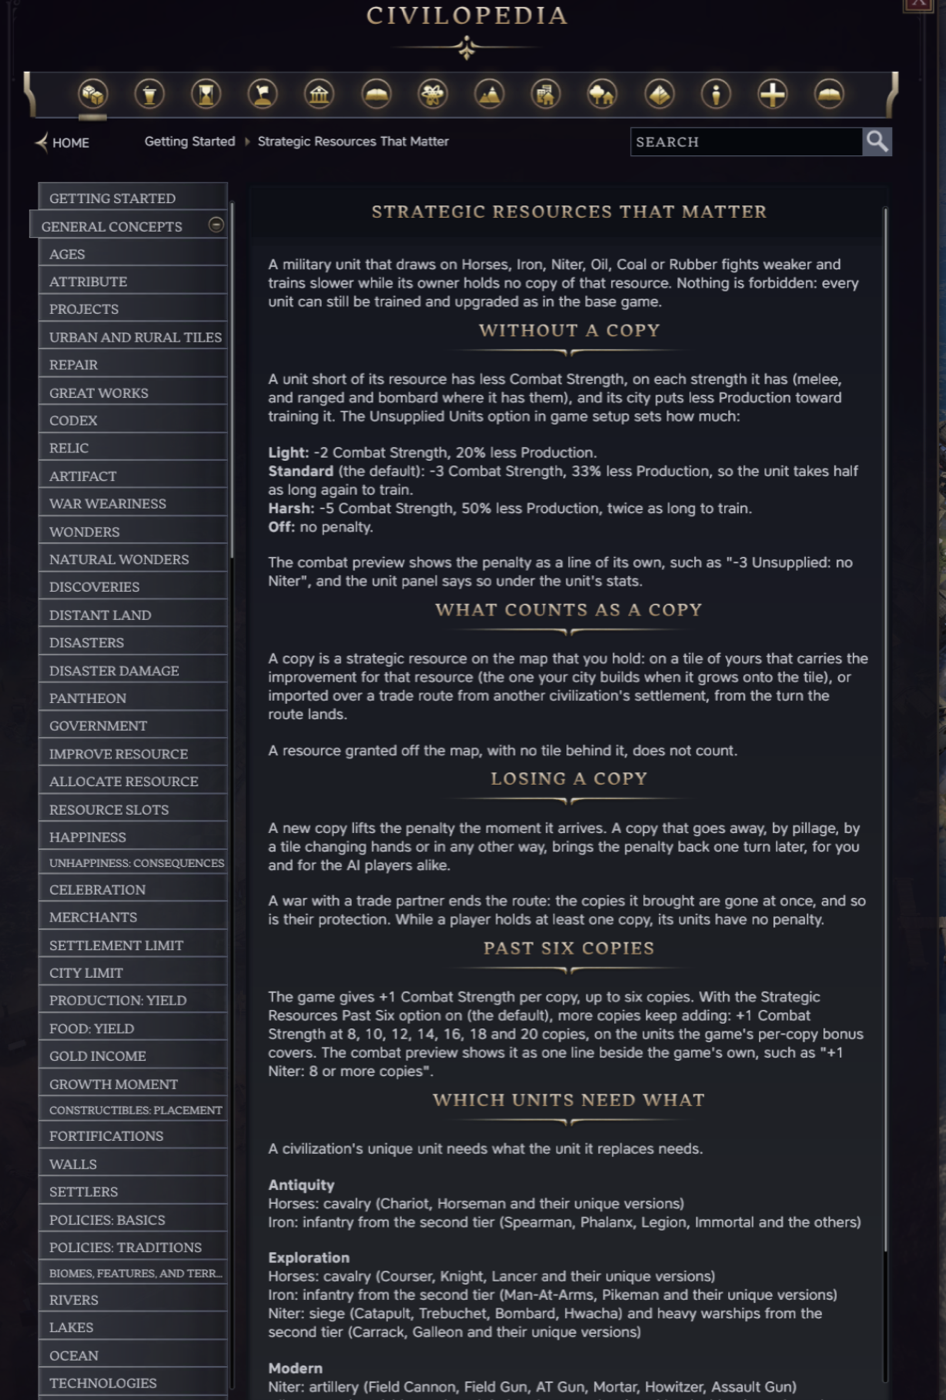
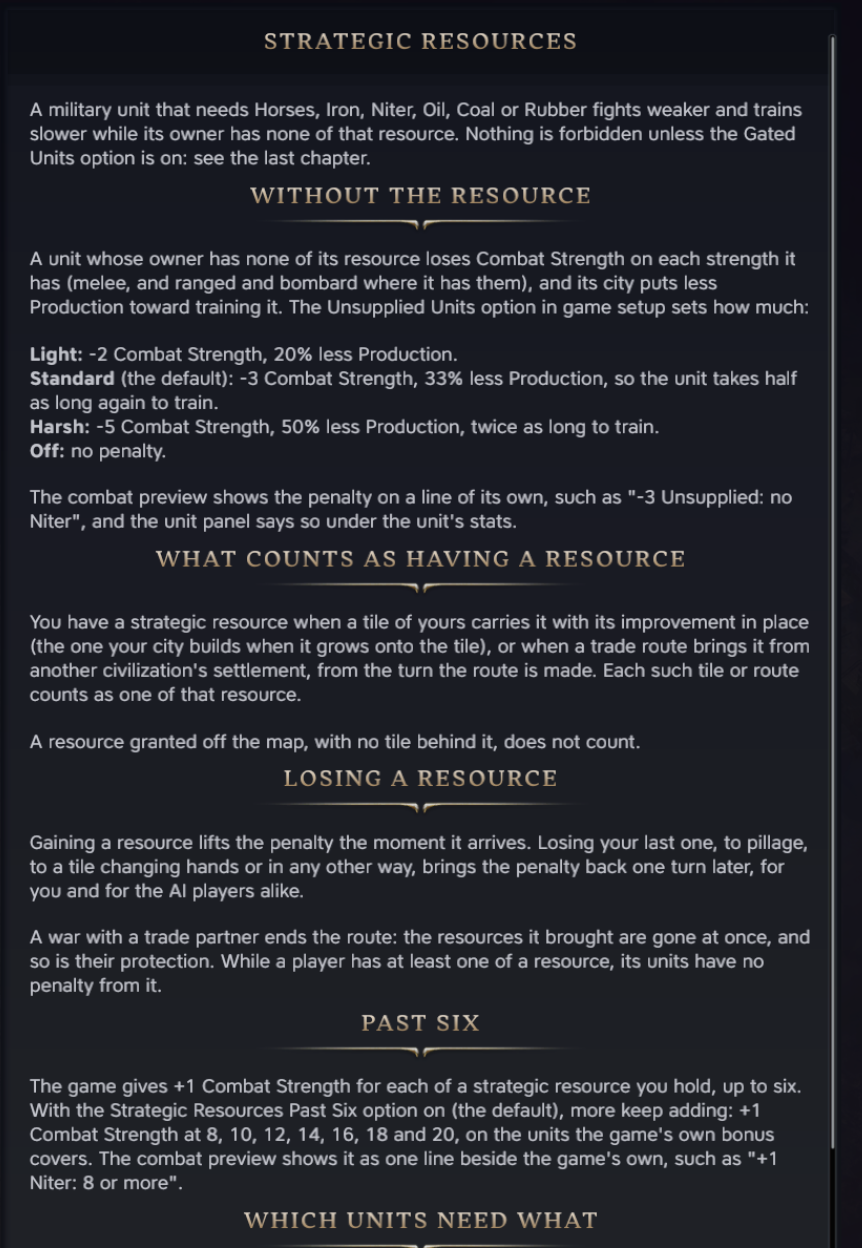
docs: every screenshot retaken in games with every other mod off
The twenty-one images in docs/screenshots now come from clean games: the final list pill, the panel's stat cell, the rewritten Civilopedia chapters, the combat preview with and without the curve line, the German and Japanese sets. Watched: each capture read back after it was taken.

Changed region(s): [[0.0302, 0.0, 1.0, 1.0]]

diff --git a/docs/verification-runs.md b/docs/verification-runs.md
@@ -488,7 +488,7 @@ byte for byte), as the owner asked for the release images; the Japanese ones are
 | `p15-age-2` (soak `sr-gate-age2`, the same script, Exploration start) | Exploration to Modern | Exploration turn 1: the Training parameters, 45 columns, the Courser and Catapult listed as locked; the Courser refused, allowed with one Horses, refused again on the clear. The age ended at 10 of 10 after turn 10 and the game went into Modern by itself; `Modding.log`: `-modern`, `-modern-standard`, `-modern-curve` and `-modern-gate-training` at the transition, no Exploration group. Modern turn 1: the same parameters, 43 columns, the Field Cannon and Mortar listed as locked; the Field Cannon refused without Niter, allowed with one, refused again on the clear (3 of 3). The carried Man-at-Arms came through as a Line Infantry (the game's conversion), so no carried gated unit's panel was read. No crash or hang in either run | watched |
 | `p15-ai-modern` (lab game, Modern, Training, seed 4242, the advanced start marked completed, 60 turns ended as a player would) | The independents' units, each AI's units, resources and production, every ten turns | No crash, no hang; 61 re-check lines, no warning or error of the mod's. Every AI held 1 to 5 Niter and 1 to 9 Oil from the start and built with them: the Ottomans 13 Landships (Oil) by turn 61, Hawaii 3 Field Guns and a Heavy Artillery (Niter), Persia a Field Gun and a Heavy Artillery; the rest Riflemen, Cuirassiers, frigates, settlers, buildings and wonders; no queue stuck. The 12 independents built Field Cannons, Field Guns and frigates throughout (11 Field Cannons at 31), the gate never reaching them | watched |
 | `p15-ui-clean-off` (capture game 4, Antiquity, Off, every other mod off) | A Chariot placed with no Horses, selected; the README's top image | 27 melee; the panel's red pill "Unsupplied: no Horses (-3 Combat Strength, slower to train)" with no gate tail; [screenshot](screenshots/unit-panel-en.png). Two earlier captures of the same showed Steam's overlay notice over the panel (it appears when the window first comes to the front after launch); the third was taken twenty seconds after bringing the window forward | watched |
-| `p15-ui-retake` (five further capture games, every other mod off: Modern English at the defaults, Modern German, Exploration Japanese under Training and upgrade as the Sengoku, Antiquity English under Training as Rome, Antiquity English with the option Off) | Every screenshot in `screenshots/` retaken for the release, with the final list pill and the panel's stat cell | Modern English: the 1.0 list pills "Unsupplied: no Niter" on the Field Cannon and Mortar; the 1.0 callout "Your Field Cannon needs Niter, and you have none: ..."; the page's top chapters and the Field Cannon's page ("Needs Niter: with none, ..."); the notification's train icon; the combat preview "42: Ranged Strength, -5 War Weariness, -3 Unsupplied: no Niter" against Persia's Line Infantry after a war declared from script and a roll (the panel opens from a selected unit, the game's "ranged-attack-started" event and the plot cursor on a visible enemy, no attack operation needed); with 8 Niter (4 by the capital's expansion, 4 by a town founded for it; a tile torn down with `DESTROY_ELEMENT` never re-entered the expand list) "46: Ranged Strength, +6 Niter Resource, +1 Niter: 8 or more". The panel's cell: the resource icon over "-3" in red at the end of the stats row with the game's divider, the sentence as its tooltip; an earlier build left the cell among the game's cells after a refresh (the German capture), fixed by re-appending it. German: "Unversorgt: ohne Öl (-3 Kampfstärke, langsamer ausgebildet)" as the cell's tooltip, the callout "Unversorgte Einheit". Japanese: the list "ロック中: 馬がない" and "ロック中: 硝石がない", the Courser's cell, the gate callout "ロックされたユニット" with the upgrade body, the page's last chapter | watched |
+| `p15-ui-retake` (five further capture games, every other mod off: Modern English at the defaults, Modern German, Exploration Japanese under Training and upgrade as the Sengoku, Antiquity English under Training as Rome, Antiquity English with the option Off) | Every screenshot in `screenshots/` retaken for the release, with the final list pill and the panel's stat cell | Modern English: the 1.0 list pills "Unsupplied: no Niter" on the Field Cannon and Mortar; the 1.0 callout "Your Field Cannon needs Niter, and you have none: ..."; the page's top chapters and the Field Cannon's page ("Needs Niter: with none, ..."); the notification's train icon; the combat preview "42: Ranged Strength, -5 War Weariness, -3 Unsupplied: no Niter" against Persia's Line Infantry after a war declared from script and a roll (the panel opens from a selected unit, the game's "ranged-attack-started" event and the plot cursor on a visible enemy, no attack operation needed); with 8 Niter (4 by the capital's expansion, 4 by a town founded for it; a tile torn down with `DESTROY_ELEMENT` never re-entered the expand list) "46: Ranged Strength, +6 Niter Resource, +1 Niter: 8 or more". The panel's cell: the resource icon over "-3" in red at the end of the stats row with the game's divider, the sentence as its tooltip; an earlier build left the cell among the game's cells after a refresh (the German capture), fixed by re-appending it. German: "Unversorgt: ohne Öl (-3 Kampfstärke, langsamer ausgebildet)" as the cell's tooltip, the callout "Unversorgte Einheit". Japanese: the list "ロック中: 馬がない" and "ロック中: 硝石がない", the Courser's cell, the gate callout "ロックされたユニット" with the upgrade body, the page's last chapter. Antiquity, Training: the list's "Locked: no Horses" and "Locked: no Iron" pills with the wider padding, the Legion's cell with the gate tail in its tooltip, last in the stats row behind its divider. Antiquity, Off: the Chariot's cell, "-3" under the Horses icon, 27 melee, for the README's top image | watched |
 | `p15-gate-modern` (game 4, Modern, Training, Russian, Homo Ludens, Mod Commons and Readable Tooltips off) | The groups and the data; the list; a Tank placed; level 2 | Groups `modern-gate-training` with the 1.0 ones; the mod's own parameters; the column on 43 units; the index on. Mortar and Field Cannon greyed with "Заблокирован: нет ресурса «Селитра»", once each with Mod Commons off; the Line Infantry free. Panel "Без снабжения: нет ресурса «Нефть» (-3 к боевой мощи, обучение дольше). Новые обучить нельзя." Callout, after the 1.0 one on the same unit: "ЗАБЛОКИРОВАННЫЙ ОТРЯД" / "Отряду «Танк» нужен ресурс «Нефть», а у вас его нет: его нельзя обучить или купить, пока вы не получите единицу ресурса. ..." Resource line (module) "Нужен для обучения: Дредноут, Линкор, Сухопутный корабль и ещё 1." | watched |
 | `p15-ui-notify-ru` (game 4) | Niter held at a turn start, then cleared, no Niter unit in the field | Turn 3: "Снабжение потеряно: Селитра" / "Снабжение потеряно: нет ресурса «Селитра». Пока вы снова не получите ресурс «Селитра», нуждающиеся в нём отряды получают -3 к боевой мощи и обучаются дольше. До тех пор новые обучить нельзя." | watched |
 | `p15-gate-reload` (soak `sr-gate-reload`, `devtools/soak/sr-gate-reload-game.js`, the game 1 save `SOAK-SR-GATE-G1` loaded from the main menu, every other mod off) | After the load: the data, the Legion's lock, the list item, the panel; one Iron; the clear; a roll | Turn 10 as saved: the Training groups' parameters and 22 columns; Legion and Horseman refused; the item greyed with the full sentence "Needs Iron: cannot be trained without it." (the game's own chooser has room for it); the panel line with its tail. One Iron: build and purchase allowed, "Needs Iron (you have 1)."; cleared: refused the same turn; after the roll still refused. 3 of 3 checks passed; no death in the 60 s | watched |
